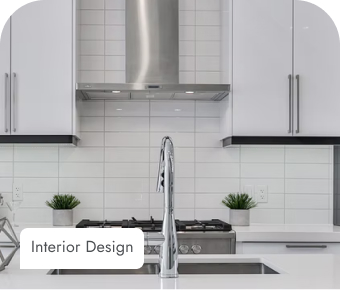
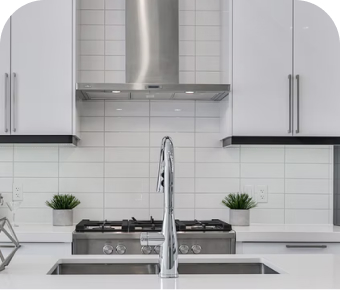
change add kind in nems-item

Changed region(s): [[0.0588, 0.7759, 0.4412, 0.931]]

diff --git a/blog.html b/blog.html
@@ -70,6 +70,9 @@
             <section class="news-blog__cards">     
                 <div class="news-item" v-for="item in array" :key="id">  
                     <img class="news-item__img" :src="item.img" alt="news__block_img">
+                    <div class="news-item__kind">
+                        <h4 class="news-item__kind_heading">{{item.heading}}</h4>
+                    </div>
                     <h3 class="news-item__title">{{item.title}}</h3>
                     <div class="news-item__date">
                         <p class="news-item__date_left">{{item.data}}</p>
@@ -137,12 +140,12 @@
                 data() {
                     return {
                         array: [
-                            { id: '1', img: './img/news-item__img_1.jpg', title: 'Let’s Get Solution For Building Construction Work', data: '26 December,2022'},
-                            { id: '2', img: './img/news-item__img_2.jpg', title: 'Low Cost Latest Invented Interior Designing   Ideas.', data: '22 December,2022'},
-                            { id: '3', img: './img/news-item__img_3.jpg', title: 'Best For Any Office & Business Interior Solution', data: '25 December,2022'},
-                            { id: '1', img: './img/news-item__img_4.jpg', title: 'Let’s Get Solution For Building Construction Work', data: '26 December,2022'},
-                            { id: '2', img: './img/news-item__img_5.jpg', title: 'Low Cost Latest Invented Interior Designing   Ideas.', data: '22 December,2022'},
-                            { id: '3', img: './img/news-item__img_6.jpg', title: 'Best For Any Office & Business Interior Solution', data: '25 December,2022'},
+                            { id: '1', img: './img/news-item__img_1.jpg', heading: 'Kitchan Design', title: 'Let’s Get Solution For Building Construction Work', data: '26 December,2022'},
+                            { id: '2', img: './img/news-item__img_2.jpg', heading: 'Living Design', title: 'Low Cost Latest Invented Interior Designing   Ideas.', data: '22 December,2022'},
+                            { id: '3', img: './img/news-item__img_3.jpg', heading: 'Interior Design', title: 'Best For Any Office & Business Interior Solution', data: '25 December,2022'},
+                            { id: '1', img: './img/news-item__img_4.jpg', heading: 'Kitchan Design', title: 'Let’s Get Solution For Building Construction Work', data: '26 December,2022'},
+                            { id: '2', img: './img/news-item__img_5.jpg', heading: 'Living Design', title: 'Low Cost Latest Invented Interior Designing   Ideas.', data: '22 December,2022'},
+                            { id: '3', img: './img/news-item__img_6.jpg', heading: 'Interior Design', title: 'Best For Any Office & Business Interior Solution', data: '25 December,2022'},
                         ]
                     }
                 },

diff --git a/index.html b/index.html
@@ -94,6 +94,9 @@
             <section class="news__block">
                 <div class="news-item">
                     <img class="news-item__img" src="img/news-item__img_1.jpg" alt="news__block_img">
+                    <div class="news-item__kind">
+                        <h4 class="news-item__kind_heading">Kitchan Design</h4>
+                    </div>
                     <h3 class="news-item__title">Let’s Get Solution For Building Construction Work
                     </h3>
                     <div class="news-item__date">
@@ -110,6 +113,9 @@
                 </div>
                 <div class="news-item">
                     <img class="news-item__img" src="img/news-item__img_2.jpg" alt="news__block_img">
+                    <div class="news-item__kind">
+                        <h4 class="news-item__kind_heading">Living Design</h4>
+                    </div>
                     <h3 class="news-item__title">Low Cost Latest Invented Interior Designing<br>Ideas.
                     </h3>
                     <div class="news-item__date">
@@ -126,6 +132,9 @@
                 </div>
                 <div class="news-item">
                     <img class="news-item__img" src="img/news-item__img_3.jpg" alt="news__block_img">
+                    <div class="news-item__kind">
+                        <h4 class="news-item__kind_heading">Interior Design</h4>
+                    </div>
                     <h3 class="news-item__title">Best For Any Office & Business Interior Solution
                     </h3>
                     <div class="news-item__date">

diff --git a/style.scss b/style.scss
@@ -86,12 +86,36 @@ body {
     @include flex-col-start;
     border-radius: 82px;
     border: 1px solid #E7E7E7;
+    position: relative;
 
     &__img {
         height: 284px;
         margin-bottom: 12px;
         border-top-left-radius: 62px;
         border-top-right-radius: 62px;
+    }
+
+    &__kind {
+        position: absolute;
+        width: 124px;
+        height: 41px;
+        border-top-right-radius: 8px;
+        border-top-left-radius: 8px;
+        border-bottom-right-radius: 8px;
+        background-color: $color_Back;       
+        top: 244px;
+        left: 42px;
+        text-align: center;
+
+        &_heading {
+            color: #4D5053;
+            font-size: 16px;
+            font-style: normal;
+            font-weight: 400;
+            letter-spacing: 0.16px;
+            text-transform: capitalize;
+            margin-top: 6px;
+        }
     }
 
     &__title {

diff --git a/style.css b/style.css
@@ -561,12 +561,34 @@ body {
   justify-content: start;
   border-radius: 82px;
   border: 1px solid #E7E7E7;
+  position: relative;
 }
 .news-item__img {
   height: 284px;
   margin-bottom: 12px;
   border-top-left-radius: 62px;
   border-top-right-radius: 62px;
+}
+.news-item__kind {
+  position: absolute;
+  width: 124px;
+  height: 41px;
+  border-top-right-radius: 8px;
+  border-top-left-radius: 8px;
+  border-bottom-right-radius: 8px;
+  background-color: #FFF;
+  top: 244px;
+  left: 42px;
+  text-align: center;
+}
+.news-item__kind_heading {
+  color: #4D5053;
+  font-size: 16px;
+  font-style: normal;
+  font-weight: 400;
+  letter-spacing: 0.16px;
+  text-transform: capitalize;
+  margin-top: 6px;
 }
 .news-item__title {
   display: block;
